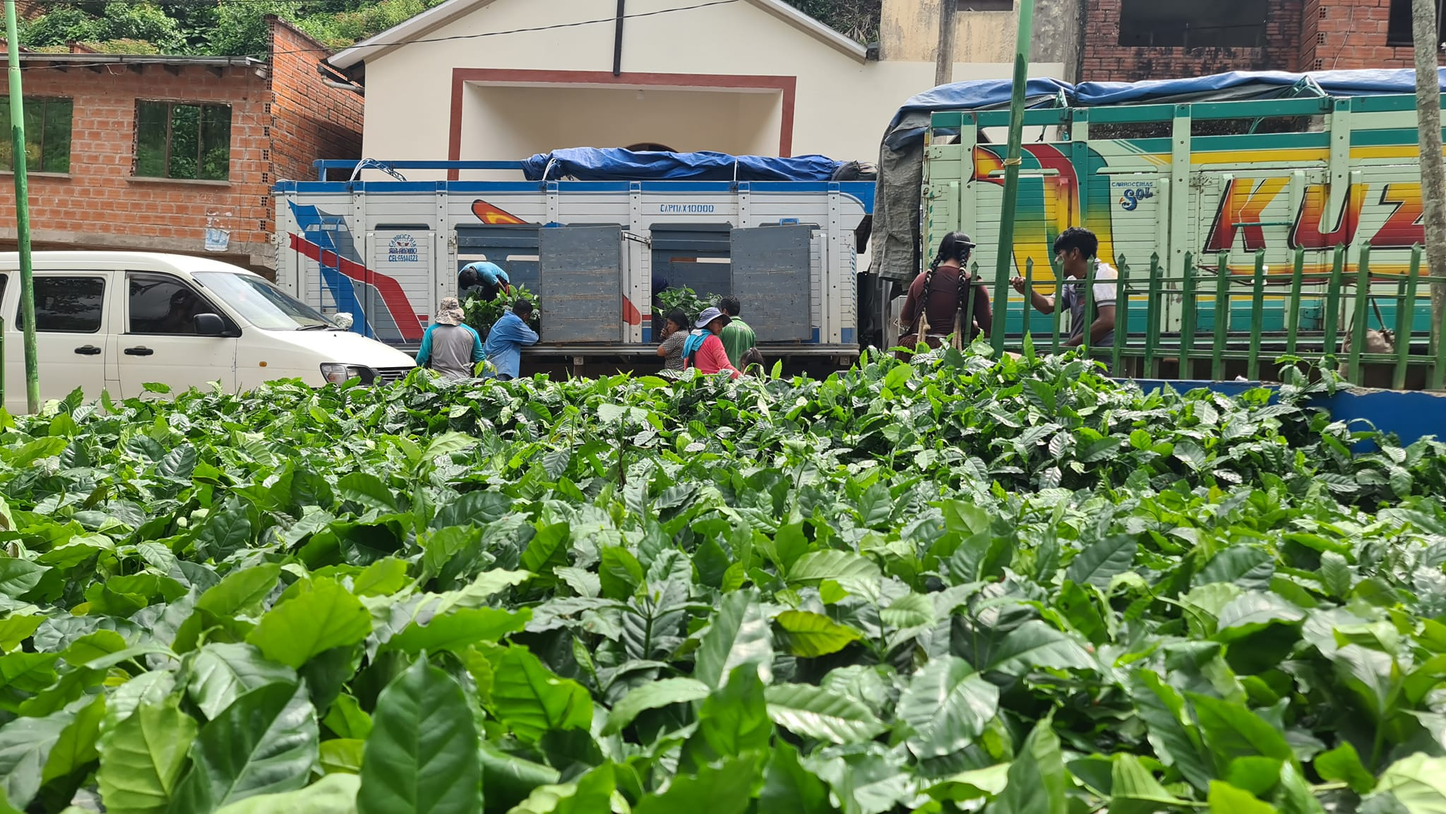
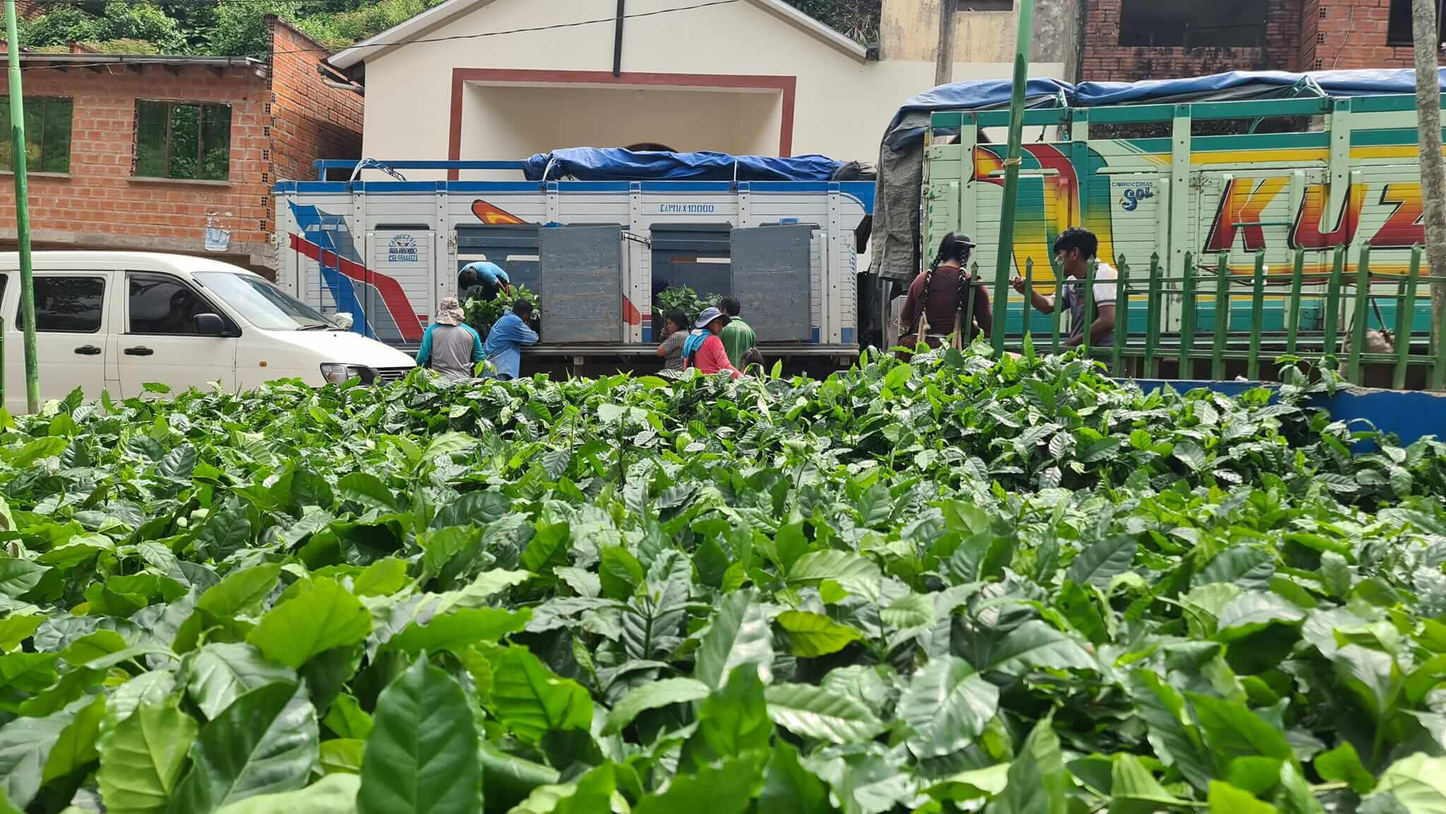
Compressed images and added arrow button with hooks

diff --git a/src/components/shared/Navbar.tsx b/src/components/shared/Navbar.tsx
@@ -1,34 +1,24 @@
 import flades from "../../assets/shared/logoFlades.png"
 import { Link, useLocation } from "@tanstack/react-router"
 import { languages, navTitles } from "../../data/shared"
-import { Dispatch, Key, SetStateAction, useEffect, useState } from "react";
+import { Dispatch, Key, SetStateAction, useState } from "react";
 import { AnimatePresence, motion } from "framer-motion";
 import { IconoirProvider, Menu, Xmark } from "iconoir-react";
 import { Autocomplete, AutocompleteItem } from "@nextui-org/react";
 import { clsx } from "clsx";
 import useLanguage from "../../hooks/useLanguage";
+import useScroll from "../../hooks/useScroll";
 
 function Navbar() {
-    const [isScrolled, setIsScrolled] = useState(false);
+    // const [isScrolled, setIsScrolled] = useState(false);
     const [menuOpen, setMenuOpen] = useState(false);
     const { language } = useLanguage();
     const { pathname } = useLocation();
-
-    useEffect(() => {
-        console.log(pathname);
-        const handleScroll = () => {
-            const isScrolled = window.scrollY > 30;
-            setIsScrolled(isScrolled);
-        };
-
-        window.addEventListener('scroll', handleScroll);
-
-        return () => window.removeEventListener('scroll', handleScroll);
-    }, []);
+    const isScrolled = useScroll({ scrollY: 30 });
 
     return (
         <>
-            <nav className={clsx("fixed w-full md:py-4 lg:py-0 py-0 gap-8 top-0 z-30 flex justify-between items-center md:pl-10 md:pr-14 sm:pl-4 sm:pr-8 pr-2 transition-all",
+            <nav className={clsx("fixed w-full md:py-4 lg:py-0 py-0 gap-8 top-0 z-30 flex bg-[#50505033] backdrop-blur-[10px] justify-between items-center md:pl-10 md:pr-14 sm:pl-4 sm:pr-8 pr-2 transition-all",
                 isScrolled && "bg-[#50505033] backdrop-blur-[10px] transition-all", pathname === "/" && "sticky")}>
                 <Link to="/">
                     <img className="w-40 sm:w-48" src={flades} alt="Fundación Flades Logo" />

diff --git a/src/routes/proyectos/index.lazy.tsx b/src/routes/proyectos/index.lazy.tsx
@@ -5,6 +5,8 @@ import PageBanner from '../../components/shared/PageBanner';
 import { projectsSlider, proyectosContent } from '../../data/proyectos';
 import { clsx } from 'clsx';
 import InfoBox from '../../components/shared/InfoBox';
+import { useRef } from 'react';
+import UpArrow from '../../components/shared/UpArrow';
 
 export const Route = createLazyFileRoute('/proyectos/')({
   component: () => <Proyectos />,
@@ -15,18 +17,19 @@ const { events, projects, studies, trainings, workshops } = content;
 
 function Proyectos() {
   const { language } = useLanguage()
+  const buttonsRef = useRef<HTMLDivElement>(null);
 
   return (
     <div className='flex flex-col gap-10 pb-10'>
+      <UpArrow buttonsRef={buttonsRef} />
       <PageBanner slides={projectsSlider} content={slogan.content[language]} title={slogan.title[language]}>
       </PageBanner>
-      <section className='flex flex-col gap-4 items-center'>
+      <section id='buttons' ref={buttonsRef} className='flex flex-col gap-4 items-center'>
         <div className='grid gap-8 w-[80%] lg:w-[800px] grid-cols-1 sm:grid-cols-2 lg:grid-cols-3  '>
           {
             [events, projects, studies, trainings, workshops].map((category) => (
-
               <button
-                onClick={async () => {
+                onClick={() => {
                   const element = document.getElementById(category.title[language])
                   if (element) {
                     element.scrollIntoView({ behavior: 'smooth' })
@@ -81,6 +84,6 @@ function Proyectos() {
         icon={workshops.icon}
         secondTitle={workshops.held.title[language]}
         secondItems={workshops.held.workshops} />
-    </div>
+    </div >
   )
 }

diff --git a/src/components/shared/UpArrow.tsx b/src/components/shared/UpArrow.tsx
@@ -1,0 +1,42 @@
+import { AnimatePresence, motion } from 'framer-motion'
+import { RefObject, useEffect } from 'react'
+import useScroll from '../../hooks/useScroll';
+import { IconoirProvider, MapsArrow } from 'iconoir-react';
+
+const buttonAnimation = {
+    hidden: { x: 0, opacity: 0 },
+    visible: { x: 0, opacity: 1 },
+    exit: { x: 0, opacity: 0 },
+};
+
+type UpArrowProps = {
+    buttonsRef: RefObject<HTMLDivElement>
+}
+
+function UpArrow({ buttonsRef }: UpArrowProps) {
+    const isScrolled = useScroll({ scrollY: 1000 });
+    useEffect(() => {
+        buttonsRef.current?.classList.add('scroll-my-32')
+    }, [buttonsRef])
+    return (
+        <AnimatePresence>
+            {isScrolled && <motion.button
+                transition={{
+                    x: { type: 'spring', bounce: 0, duration: 0.25 },
+                }}
+                variants={buttonAnimation}
+                initial="hidden"
+                animate="visible"
+                exit="exit"
+                onClick={() => {
+                    buttonsRef.current?.scrollIntoView({ behavior: 'smooth' })
+                }} className='transition-all fixed bottom-4 right-4 z-10 rounded-full p-4 grid place-items-center bg-[#06F93B]'>
+                <IconoirProvider>
+                    <MapsArrow />
+                </IconoirProvider>
+            </motion.button>}
+        </AnimatePresence>
+    )
+}
+
+export default UpArrow

diff --git a/src/hooks/useScroll.tsx b/src/hooks/useScroll.tsx
@@ -1,0 +1,22 @@
+import { useEffect, useState } from "react";
+
+type useScrollProps = {
+    scrollY: number;
+}
+
+function useScroll({ scrollY }: useScrollProps) {
+    const [isScrolled, setIsScrolled] = useState(false);
+    useEffect(() => {
+        const handleScroll = () => {
+            const isScrolled = window.scrollY > scrollY;
+            setIsScrolled(isScrolled);
+        };
+
+        window.addEventListener('scroll', handleScroll);
+
+        return () => window.removeEventListener('scroll', handleScroll);
+    }, []);
+    return isScrolled;
+}
+
+export default useScroll
